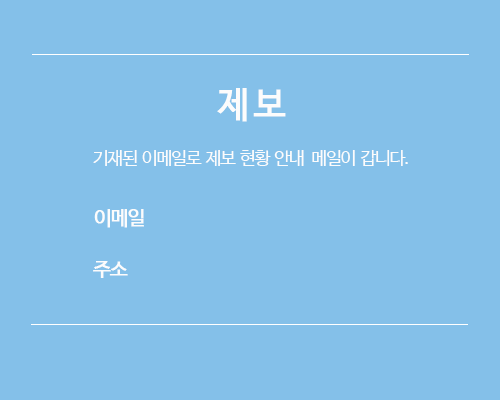
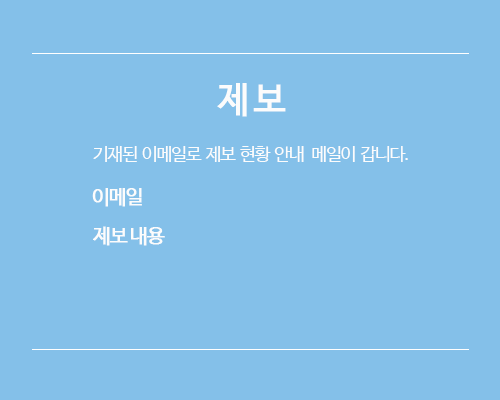
PopUp 3차(마무리)

diff --git a/JSDProject/index.html b/JSDProject/index.html
@@ -19,20 +19,8 @@
   <link id="switcher" href="assets/css/default-theme.css" rel="stylesheet">
   <!-- *Main style sheet -->
   <link href="style.css" rel="stylesheet">
-  <!-- *Layer PopUp sheet -->
-  <style>
-    #layer {
-      position: absolute;
-      display: block;
-      max-width: 100%;
-      /*
-      left: 50%;
-      margin-left: -20%;
-      margin-top: -244px;
-      */
-      visibility: hidden;
-    }
-  </style>
+  <!-- *Layer PopUp -->
+  <link href="assets/css/layerPopup.css" rel="stylesheet">
 
   <!-- Google Fonts -->
   <link href='https://fonts.googleapis.com/css?family=Tangerine' rel='stylesheet' type='text/css'>
@@ -232,13 +220,18 @@
     <div class="title-speak">
       <h2>제보</h2>
       <div class="mu-speak-content">
-          <a onclick="showLayer(); false;" style="cursor:pointer">제보할 수 있는 팝업 창을 열까욥 ?!</a>
+        <a onclick="showLayer(); return false;">제보할 수 있는 팝업 창을 열까욥 ?!</a>
+      </div>
+      <div id="layerArea">
+        <img id="layer" src="assets/img/popup/layerPopup.png" >
+        <form>
+          <input type="text" id="mailarea" required>
+          <input type="textarea" id="reportarea" required>
+          <input type="image" src="assets/img/popup/submit.png" id="sendReport">
+          <img src="assets/img/popup/close.png" id="closebtn" onclick="reportClose()">
+        </form>
       </div>
     </div>
-    <div id="layer">
-      <img src="assets/img/popup/layerPopup.png" >
-    </div>
-
   </section>
   <!-- End 제보 -->
 
@@ -280,7 +273,7 @@
   <!-- *Custom js -->
   <script src="assets/js/custom.js"></script>
   <!-- *Show SearchPopup -->
-  <script src="assets/js/searchpopup.js"></script>
+  <script src="assets/js/layerPopup.js"></script>
 
 </body>
 </html>

diff --git a/JSDProject/assets/js/layerpopup.js b/JSDProject/assets/js/layerpopup.js
@@ -1,38 +1,26 @@
-$('.btn-example').click(function(){
- var $href = $(this).attr('href');
- layer_popup($href);
+var myFunc = null;
+var layerArea = document.getElementById("layerArea");
+
+$(document).ready(function () {
+ myFunc = function () {
+  $('div#layerArea').css({
+   "top": (($(window).height() - $('div#layerArea').outerHeight()) / 2) + "px"
+  }),
+  $('div#layerArea').css({
+   "left": (($(window).width() - $('div#layerArea').outerWidth()) / 2) + "px"
+  })
+ }
 });
 
-function layer_popup(el){
+function showLayer() {
+ myFunc();
+ layerArea.style.visibility = "visible";
+}
 
- var $el = $(el);        //레이어의 id를 $el 변수에 저장
- var isDim = $el.prev().hasClass('dimBg');   //dimmed 레이어를 감지하기 위한 boolean 변수
+$(window).resize(function () {
+ myFunc();
+});
 
- isDim ? $('.dim-layer').fadeIn() : $el.fadeIn();
-
- var $elWidth = ~~($el.outerWidth()),
-     $elHeight = ~~($el.outerHeight()),
-     docWidth = $(document).width(),
-     docHeight = $(document).height();
-
- // 화면의 중앙에 레이어를 띄운다.
- if ($elHeight < docHeight || $elWidth < docWidth) {
-     $el.css({
-         marginTop: -$elHeight /2,
-         marginLeft: -$elWidth/2
-     })
- } else {
-     $el.css({top: 0, left: 0});
- }
-
- $el.find('a.btn-layerClose').click(function(){
-     isDim ? $('.dim-layer').fadeOut() : $el.fadeOut(); // 닫기 버튼을 클릭하면 레이어가 닫힌다.
-     return false;
- });
-
- $('.layer .dimBg').click(function(){
-     $('.dim-layer').fadeOut();
-     return false;
- });
-
+function reportClose() {
+ layerArea.style.visibility = "hidden";
 }

diff --git a/JSDProject/style.css b/JSDProject/style.css
@@ -170,33 +170,6 @@ body {
     top: 45%;
   }
   
-  /*==================
-      LAYER POPUP
-  ====================*/
-
-  #layer_imformation {
-    color: #000;
-    font-size: 12px;
-  }
-
-  #layer_email {
-    color: #000;
-  }
-
-  #layer_add {
-    color: #000;
-  }
-
-  #addarea {
-    width: 80%;
-    height: 40%;
-  }
-
-  #submitarea{
-    background-color: pink;
-  }
-
-
 
   /*==================
       SLIDER SECTION
@@ -517,11 +490,11 @@ body {
 }
 
 
-  #report .mu-speak-content{
-    color: #fff;
-    text-align: center;
-  }
-  
+#report .mu-speak-content{
+  color: #fff;
+  text-align: center;
+  cursor: pointer;
+}
 
   /*==================
    FOOTER SECTION

diff --git a/JSDProject/assets/css/layerPopup.css b/JSDProject/assets/css/layerPopup.css
@@ -1,0 +1,35 @@
+#layerArea {
+ position: fixed;
+ display: block;
+ max-width: 100%;
+ z-index: 9999999;
+ visibility: hidden;
+}
+#mailarea {
+ position: absolute;
+ top: 46%;
+ left: 38%;
+ width: 55.7%;
+}
+#reportarea {
+ position: absolute;
+ top: 55.5%;
+ left: 38%;
+ width: 55.7%;
+ height: 28%;
+}
+#sendReport {
+ position: absolute;
+ top: 88.7%;
+ left: 60%;
+ width: 16%;
+ height: 10%;
+}
+#closebtn {
+ position: absolute;
+ top: 88.7%;
+ left: 78%;
+ width: 16%;
+ height: 10%;
+ cursor: pointer;
+}
